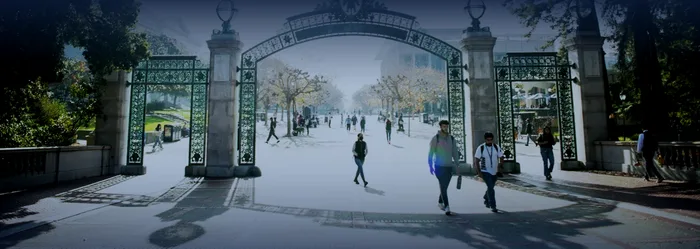
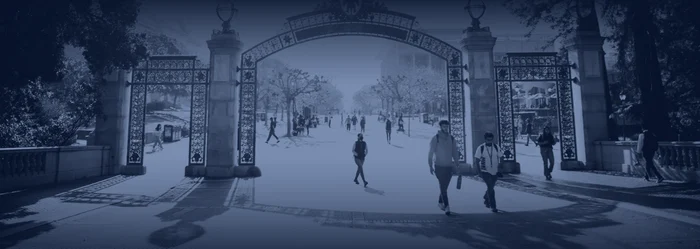
E: hero/network refinements (e folder only)

diff --git a/us-3top-2027-ai-e/index.html b/us-3top-2027-ai-e/index.html
@@ -10,7 +10,7 @@
 <meta name="theme-color" content="#0B1B3A"/>
 <link rel="preconnect" href="https://fonts.googleapis.com"/><link rel="preconnect" href="https://fonts.gstatic.com" crossorigin=""/>
 <link rel="stylesheet" href="https://fonts.googleapis.com/css2?family=IBM+Plex+Mono:wght@500;600&amp;family=IBM+Plex+Sans:ital,wght@0,400;0,500;0,600;0,700;1,600;1,700&amp;family=Noto+Sans+TC:wght@400;500;700;900&amp;display=swap"/>
-<link rel="stylesheet" href="assets/css/e.css?v=10"/>
+<link rel="stylesheet" href="assets/css/e.css?v=11"/>
 </head>
 
 <body>
@@ -32,7 +32,6 @@
 <ul class="hero-tags"><li>不需出國，在台灣就能上課</li><li>不需托福，全程即時翻譯</li><li>不需筆試，書面審查即可</li></ul>
 <div class="hero-cta"><a class="btn btn-r" href="tel:+886289882862">立即預約一對一諮詢<i aria-hidden="true">→</i></a></div>
 </div>
-<figure class="hero-fig" aria-hidden="true"><img src="assets/img/berkeley-gate-v-720.webp" srcset="assets/img/berkeley-gate-v-480.webp 480w, assets/img/berkeley-gate-v-720.webp 720w" sizes="440px" alt="" width="720" height="900"/></figure>
 </div>
 </section>
 
@@ -78,7 +77,7 @@
 <section class="stage" id="network" aria-labelledby="s4">
 <div class="stage-top">
 <img src="assets/img/berkeley-walk-1200.webp" srcset="assets/img/berkeley-walk-700.webp 700w, assets/img/berkeley-walk-1200.webp 1200w" sizes="100vw" alt="加州大學柏克萊分校校園" width="1200" height="426" loading="lazy"/>
-<div class="stage-h wrap"><h2 id="s4" class="h2">不再在核心圈外徘徊：<em class="y">同班企業家、三校教授、矽谷高層</em>，8 個月都在你身邊。</h2></div>
+<div class="stage-h wrap"><h2 id="s4" class="h2">不再在核心圈外徘徊：<em class="y">同班企業家、<span class="nw">三校教授</span>、矽谷高層</em>，8 個月都在你身邊。</h2></div>
 </div>
 <div class="stage-b"><div class="wrap">
 <ol class="outs outs3 rv">

diff --git a/us-3top-2027-ai-e/assets/css/e.css b/us-3top-2027-ai-e/assets/css/e.css
@@ -390,3 +390,17 @@ body{padding-bottom:0}
 .hero-fig img{aspect-ratio:4/5;object-position:50% 0}
 .hero-fig::after{display:none}
 @media (min-width:900px){.hero-fig{max-width:400px;justify-self:end;width:100%}}
+/* hero v3: no side image, text focus */
+.hero-fig{display:none!important}
+#network h2{text-wrap:balance}
+#network h2 .nw{white-space:nowrap}
+@media (min-width:900px){
+ .hero-in{display:flex;max-width:1200px}
+ .hero-copy{max-width:820px}
+ .hero h1{font-size:clamp(56px,5.6vw,84px);line-height:1.12;letter-spacing:-.01em}
+ .hero-lead{font-size:26px;margin-top:30px}
+ .hero-sub{margin-top:24px}
+ .hero-tags{margin-top:32px}
+ .hero-cta{margin-top:40px}
+ .hero-bg::after{background:linear-gradient(90deg,rgba(7,18,41,.92) 0%,rgba(7,18,41,.8) 45%,rgba(7,18,41,.35) 100%),linear-gradient(180deg,rgba(7,18,41,.4),transparent 30%,transparent 70%,rgba(7,18,41,.85))}
+}
